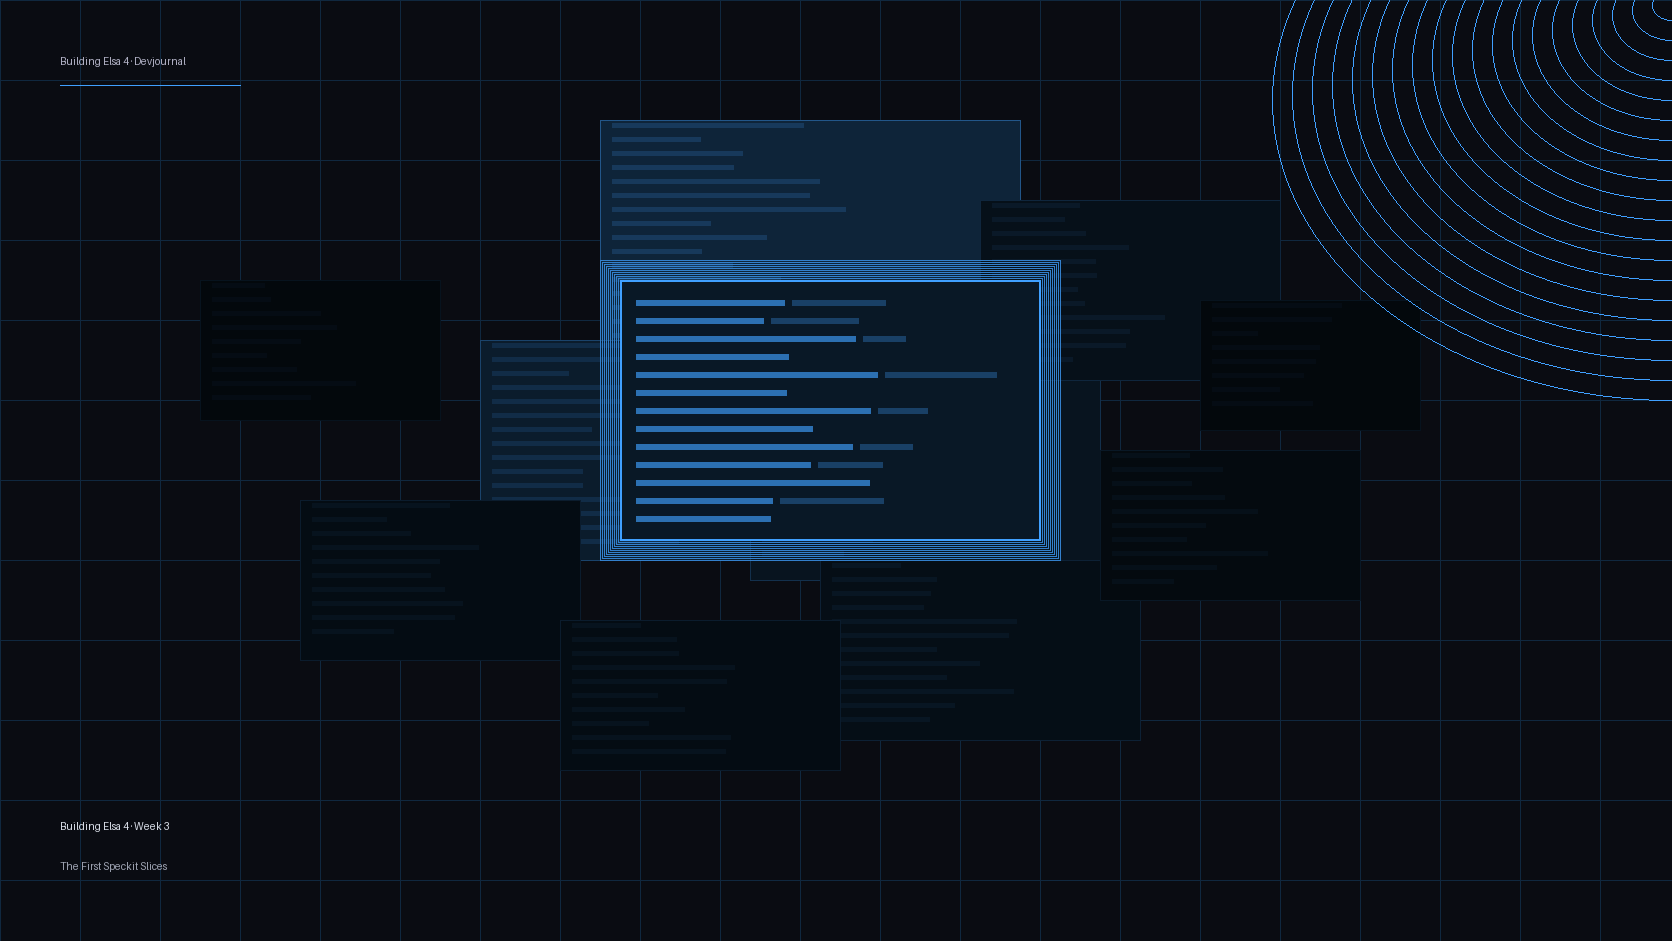
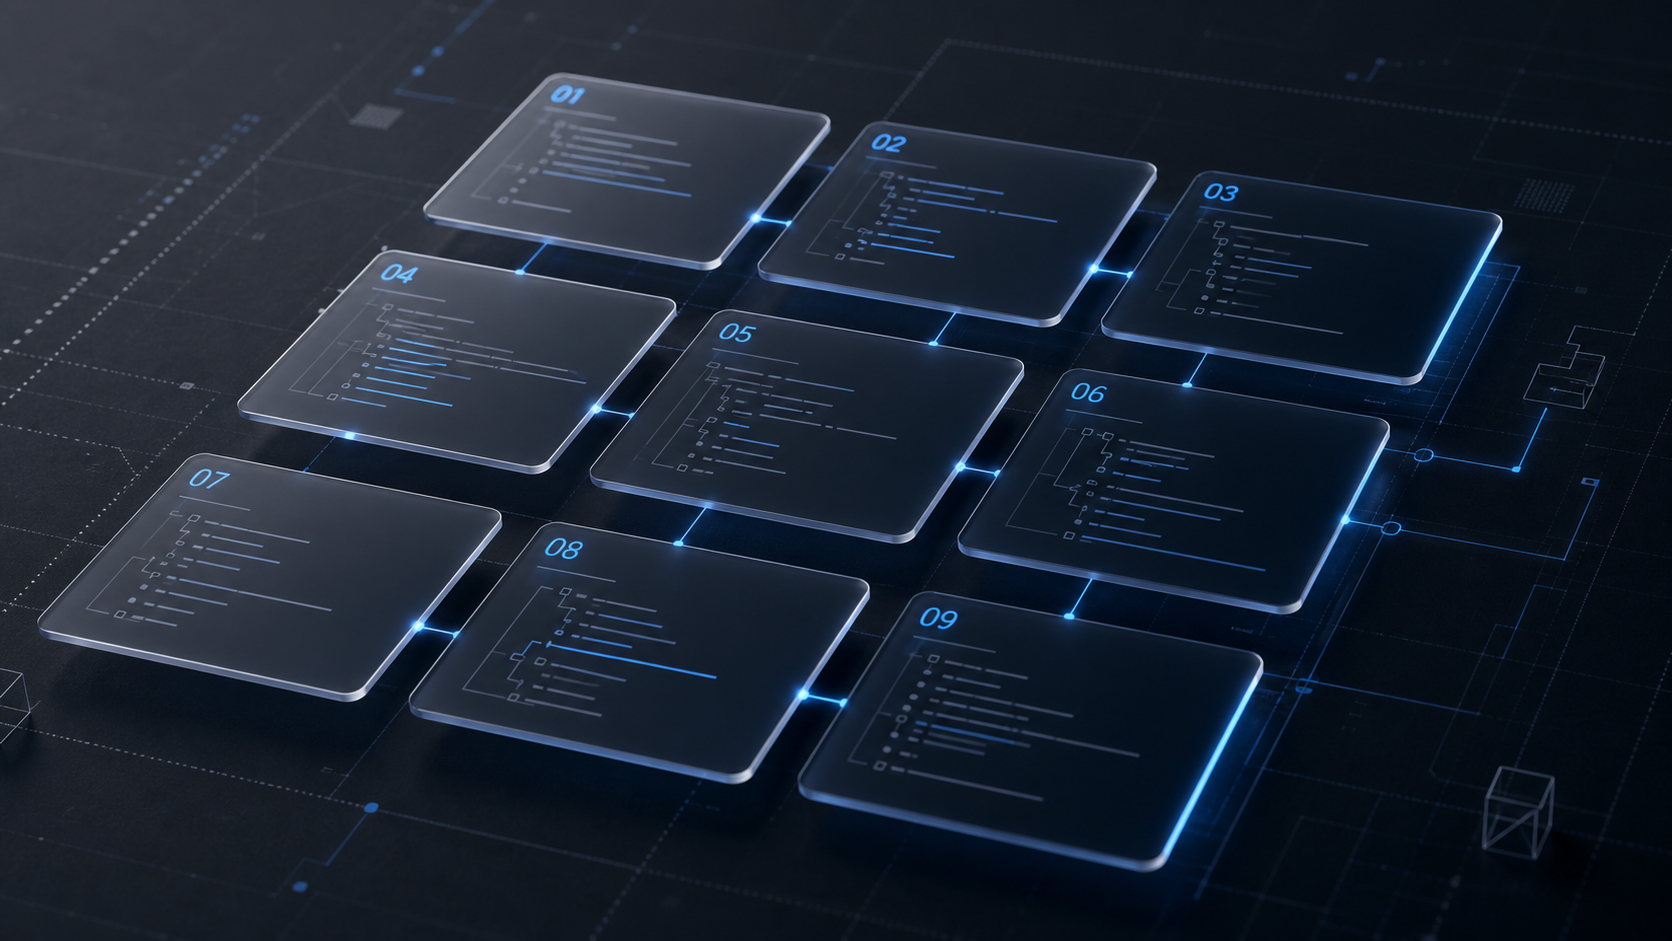
Refine featured image alt text for Elsa 4 posts

diff --git a/content/posts/2026-06-12-building-elsa-4-week-5.md b/content/posts/2026-06-12-building-elsa-4-week-5.md
@@ -14,7 +14,7 @@ tags:
   - "software-architecture"
   - "workflow-engine"
 featuredImage: "../assets/2026-06-12-building-elsa-4-week-5/featured.png"
-featuredImageAlt: "Spec cards cascading outward from a fracture line representing the Elsa 4 runtime execution seam exploding into specs."
+featuredImageAlt: "Glowing spec tiles cascade from a fracture line through a dark architectural blueprint."
 series: "Building Elsa 4"
 seoTitle: "Building Elsa 4 Week 5: Runtime Execution Seam Specs"
 seoDescription: "Week 5 turns Elsa 4's runtime contract into 67 merged PRs of ordered specs, with Groundwork defining the persistence substrate."

diff --git a/content/posts/2026-05-29-building-elsa-4-week-3.md b/content/posts/2026-05-29-building-elsa-4-week-3.md
@@ -13,7 +13,7 @@ tags:
   - "devjournal"
   - "software-architecture"
 featuredImage: "../assets/2026-05-29-building-elsa-4-week-3/featured.png"
-featuredImageAlt: "Numbered specification cards arranged in a modular grid representing Elsa 4 Speckit slices."
+featuredImageAlt: "Translucent numbered specification cards in a modular grid over a dark technical surface."
 series: "Building Elsa 4"
 seoTitle: "Building Elsa 4 Week 3: The First Speckit Slices"
 seoDescription: "Week 3 turns Elsa 4 architecture into Speckit slices: WorkflowDefinitionState scope, activity catalog identity, and numbered specs."
